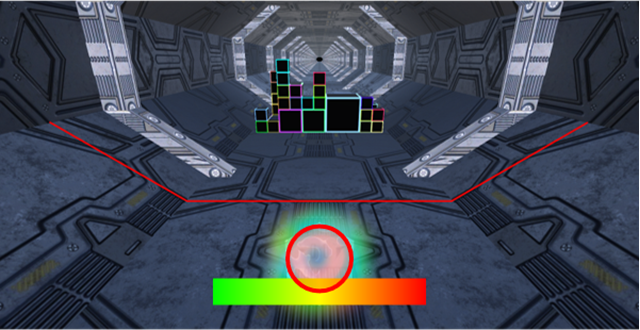
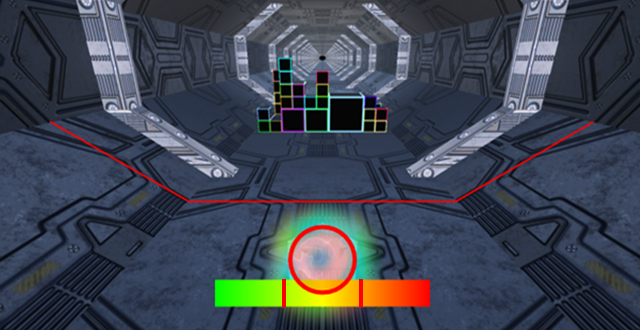
게이지 마디선 추가 및 자잘한 수정

diff --git a/src/Sections/System.js b/src/Sections/System.js
@@ -4,13 +4,14 @@ function System() {
     return (
         <>
             <div className="Image">
-                <img className="Image-right" src={require('../img/options.png')} alt="Options" />
+                <img className="Image-right-square" src={require('../img/sugarCoin.png')} alt="Sugar Coin" />
             </div>
             <div className="Main-text">
-                스킬 강화는 해당 요소의 레벨을 올리는 방식으로 이루어지며<br />
-                스토리상으로는 잃어버린 오브의 힘을 점차 되찾는 것이다.<br /><br />
-                각 항목의 최소 레벨은 0이고 체력을 제외한 최대 레벨은 10이다.<br />
-                튜토리얼 한정으로 레벨 0으로 진행된다 인게임에 표시되지 않는다.
+                화폐는 슈가코인이라고 불리우며, 게임 내에서 재화의 역할을 한다.<br />
+                슈가코인은 사탕처럼 표시되며 드림포인트로 교환이 가능하다.<br /><br />
+                <mark>계급성</mark><br />크기가 큰 장애물을 파괴할수록 슈가코인이 많이 들어온다.<br /><br />
+                <mark>초과성</mark><br />한계 충격량을 초과해서 파괴할수록 슈가코인이 많이 들어온다.<br /><br />
+                <mark>연속성</mark><br />장애물을 한 번에 많이 파괴할수록 슈가코인이 많이 들어온다.
             </div>
         </>
     );
@@ -18,11 +19,20 @@ function System() {
 
 function System2() {
     return (
-        <div className="Main-text">
-            스킬들은 마치 장비처럼 스킬 슬롯에 장착이 가능하다.<br />
-            처음에는 액티브 3칸 / 패시브 3칸으로 시작하여 <mark>드림포인트를<br />
-            지불</mark>하는 것으로 스킬 슬롯의 칸을 늘리는 것이 가능하다.
-        </div>
+        <>
+            <div className="Image">
+                <img className="Image-right-square" src={require('../img/dreamPoint.png')} alt="Dream Point" />
+            </div>
+            <div className="Main-text">
+                드림포인트는 <mark>스킬 강화</mark> 및 <mark>스킬 슬롯 확장용</mark>으로 지불이 가능하며<br />
+                강화에 필요한 드림포인트는 레벨에 따라 이차함수적으로 증가한다.<br /><br />
+                적용 공식
+                <div className="code-box">
+                    필요드림포인트 = Math.Pow(level, 2);
+                </div><br />
+                또한 1스테이지를 뺀 나머지 스테이지로 이동하기 위해서도 지불이 필요하다.
+            </div>
+        </>
     );
 }
 
@@ -33,8 +43,34 @@ function System3() {
                 <img className="Image-right" src={require('../img/options.png')} alt="Options" />
             </div>
             <div className="Main-text">
+                스킬 강화는 해당 요소의 레벨을 올리는 방식으로 이루어지며<br />
+                스토리상으로는 잃어버린 오브의 힘을 점차 되찾는 것이다.<br /><br />
+                각 항목의 최소 레벨은 0이고 체력을 제외한 최대 레벨은 10이다.<br />
+                튜토리얼 한정으로 레벨 0으로 진행되며 인게임에 표시되지 않는다.
+            </div>
+        </>
+    );
+}
+
+function System4() {
+    return (
+        <div className="Main-text">
+            스킬들은 마치 장비처럼 스킬 슬롯에 장착이 가능하다.<br />
+            처음에는 액티브 3칸 / 패시브 3칸으로 시작하여 <mark>드림포인트를<br />
+            지불</mark>하는 것으로 스킬 슬롯의 칸을 늘리는 것이 가능하다.
+        </div>
+    );
+}
+
+function System5() {
+    return (
+        <>
+            <div className="Image">
+                <img className="Image-right" src={require('../img/options.png')} alt="Options" />
+            </div>
+            <div className="Main-text">
                 각 옵션이 지니는 효과는 다음과 같다.<br /><br />
-                공격력: 레벨 상승시마다 <mark>고정 피해 (damage)</mark>가 아래의 공식을 따른다.<br />
+                공격력: 레벨 상승시마다 <mark>고정 피해 (damage)</mark>가 하단의 공식을 따른다.<br />
                 <div className="code-box">
                     <mark>//int damage0은 레벨 0 기준 고정 피해</mark><br />
                     (hp - damage0) * (1 + (level * 0.2));
@@ -49,7 +85,7 @@ function System3() {
     );
 }
 
-function System4() {
+function System6() {
     return (
         <>
             <div className="Image">
@@ -57,29 +93,31 @@ function System4() {
             </div>
             <div className="Main-text">
                 각 옵션이 지니는 효과는 다음과 같다.<br /><br />
-                에임슛: 레벨 상승시마다 퓨어 오브가 <mark>공중에서 대상을<br />
-                재조준 (리에임)하여 날릴 수 있는 횟수가 증가</mark>한다.<br />
+                에임슛: 레벨 상승시마다 퓨어 오브가 공중에서 대상을<br />
+                <mark>재조준 (리에임)하여 날릴 수 있는 횟수가 증가</mark>한다.<br />
+                게이지가 2단계 이상 차 있지 않으면 사용이 불가능하다.
             </div>
         </>
     );
 }
 
-function System5() {
+function System7() {
     return (
         <>
             <div className="Image">
                 <img className="Image-right" src={require('../img/gaugeUI.png')} alt="Gauge" />
             </div>
             <div className="Main-text">
-                게이지가 많이 차 있을수록 코어의 화력 값이 증가한다.<br /><br />
+                게이지가 많이 차 있을수록 오브의 화력 값이 증가하며,<br />
+                표시되어 있는 마디선에 따라 총 3단계로 나뉜다.<br /><br />
                 게이지가 완충됐는데도 날려지지 않을 경우 자동으로 날려지며,<br />
-                땅에 떨어진 코어는 몇 초 뒤 사라지며 다시 활성화가 가능해진다.
+                땅에 떨어진 퓨어 오브는 몇 초 뒤 사라지고 다시 활성화된다.
             </div>
         </>
     );
 }
 
-function System6() {
+function System8() {
     return (
         <>
             <div className="Image">
@@ -99,7 +137,7 @@ function System6() {
     );
 }
 
-function System7() {
+function System9() {
     return (
         <>
             <div className="Image">
@@ -116,7 +154,7 @@ function System7() {
     );
 }
 
-function System8() {
+function System10() {
     return (
         <>
             <div className="Image">
@@ -132,7 +170,7 @@ function System8() {
     );
 }
 
-function System9() {
+function System11() {
     return (
         <>
             <div className="Image">
@@ -149,7 +187,7 @@ function System9() {
     );
 }
 
-function System10() {
+function System12() {
     return (
         <>
             <div className="Image">
@@ -166,7 +204,7 @@ function System10() {
     );
 }
 
-function System11() {
+function System13() {
     return (
         <>
             <div className="Main-text">
@@ -178,7 +216,7 @@ function System11() {
     );
 }
 
-function System12() {
+function System14() {
     return (
         <>
             <div className="Image">
@@ -195,7 +233,7 @@ function System12() {
     );
 }
 
-function System13() {
+function System15() {
     return (
         <>
             <div className="Image">
@@ -211,7 +249,7 @@ function System13() {
     );
 }
 
-function System14() {
+function System16() {
     return (
         <>
             <div className="Image">
@@ -231,7 +269,7 @@ function System14() {
     );
 }
 
-function System15() {
+function System17() {
     return (
         <div className="Main-text">
             스테이지를 클리어할 때마다 경험치가 조금씩 차오른다.<br /><br />
@@ -239,43 +277,6 @@ function System15() {
             일반 스테이지 (그 외 스테이지) 순으로 받는 경험치가 늘어난다.<br /><br />
             5의 배수 레벨이 될 때마다 오브의 HP가 영구적으로 1 상승한다.
         </div>
-    );
-}
-
-function System16() {
-    return (
-        <>
-            <div className="Image">
-                <img className="Image-right-square" src={require('../img/sugarCoin.png')} alt="Sugar Coin" />
-            </div>
-            <div className="Main-text">
-                화폐는 슈가코인이라고 불리우며, 게임 내에서 재화의 역할을 한다.<br />
-                슈가코인은 사탕처럼 표시되며 드림포인트로 교환이 가능하다.<br /><br />
-                <mark>계급성</mark><br />크기가 큰 장애물을 파괴할수록 슈가코인이 많이 들어온다.<br /><br />
-                <mark>초과성</mark><br />한계 충격량을 초과해서 파괴할수록 슈가코인이 많이 들어온다.<br /><br />
-                <mark>연속성</mark><br />장애물을 한 번에 많이 파괴할수록 슈가코인이 많이 들어온다.
-            </div>
-        </>
-    );
-}
-
-function System17() {
-    return (
-        <>
-            <div className="Image">
-                <img className="Image-right-square" src={require('../img/dreamPoint.png')} alt="Dream Point" />
-            </div>
-            <div className="Main-text">
-                드림포인트는 퓨어 오브 강화용으로 지불이 가능하다.<br />
-                필요한 드림포인트는 레벨에 따라 이차함수적으로 증가한다.<br />
-                또한 1스테이지를 제외한 다른 스테이지로 이동하기<br />
-                위해서는 일정량의 드림포인트를 지불해야 한다.<br /><br />
-                적용 공식
-                <div className="code-box">
-                    필요드림포인트 = Math.Pow(level, 2);
-                </div>
-            </div>
-        </>
     );
 }
 

diff --git a/src/SectionsSystem.js b/src/SectionsSystem.js
@@ -21,55 +21,55 @@ export default function SectionsStory() {
                 return (
                     <div>
                         <Section>
-                            <MainContext number="01" title="강화" content={System()} />
+                            <MainContext number="01" title="슈가코인" content={System()} />
                         </Section>
 
                         <Section>
-                            <MainContext number="02" title="스킬 슬롯" content={System2()} />
+                            <MainContext number="02" title="드림포인트" content={System2()} />
                         </Section>
 
                         <Section>
-                            <MainContext number="03" title="패시브 스킬" content={System3()} />
+                            <MainContext number="03" title="스킬 강화" content={System3()} />
                         </Section>
 
                         <Section>
-                            <MainContext number="04" title="액티브 스킬" content={System4()} />
+                            <MainContext number="04" title="스킬 슬롯" content={System4()} />
                         </Section>
 
                         <Section>
-                            <MainContext number="05" title="퓨어 오브 - 게이지" content={System5()} />
+                            <MainContext number="05" title="패시브 스킬" content={System5()} />
                         </Section>
 
                         <Section>
-                            <MainContext number="06" title="퓨어 오브 - 게이지 공식" content={System6()} />
+                            <MainContext number="06" title="액티브 스킬" content={System6()} />
                         </Section>
 
                         <Section>
-                            <MainContext number="07" title="퓨어 오브 - 하트" content={System7()} />
+                            <MainContext number="07" title="퓨어 오브 - 게이지" content={System7()} />
                         </Section>
 
                         <Section>
-                            <MainContext number="08" title="임팩테이블" content={System8()} />
+                            <MainContext number="08" title="퓨어 오브 - 게이지 공식" content={System8()} />
                         </Section>
 
                         <Section>
-                            <MainContext number="09" title="임팩테이블 - 스탯" content={System9()} />
+                            <MainContext number="09" title="퓨어 오브 - 하트" content={System9()} />
                         </Section>
 
                         <Section>
-                            <MainContext number="10" title="임팩테이블 - 충격량" content={System10()} />
+                            <MainContext number="10" title="임팩테이블" content={System10()} />
                         </Section>
 
                         <Section>
-                            <MainContext number="11" title="임팩테이블 - 분류" content={System11()} />
+                            <MainContext number="11" title="임팩테이블 - 스탯" content={System11()} />
                         </Section>
 
                         <Section>
-                            <MainContext number="12" title="임팩테이블의 종류" content={System12()} />
+                            <MainContext number="12" title="임팩테이블 - 충격량" content={System12()} />
                         </Section>
 
                         <Section>
-                            <MainContext number="13" title="임팩테이블의 종류" content={System13()} />
+                            <MainContext number="13" title="임팩테이블 - 분류" content={System13()} />
                         </Section>
 
                         <Section>
@@ -77,15 +77,15 @@ export default function SectionsStory() {
                         </Section>
 
                         <Section>
-                            <MainContext number="15" title="경험치" content={System15()} />
+                            <MainContext number="15" title="임팩테이블의 종류" content={System15()} />
                         </Section>
 
                         <Section>
-                            <MainContext number="16" title="슈가코인" content={System16()} />
+                            <MainContext number="16" title="임팩테이블의 종류" content={System16()} />
                         </Section>
 
                         <Section>
-                            <MainContext number="17" title="드림포인트" content={System17()} />
+                            <MainContext number="17" title="경험치" content={System17()} />
                         </Section>
                     </div>
                 );
